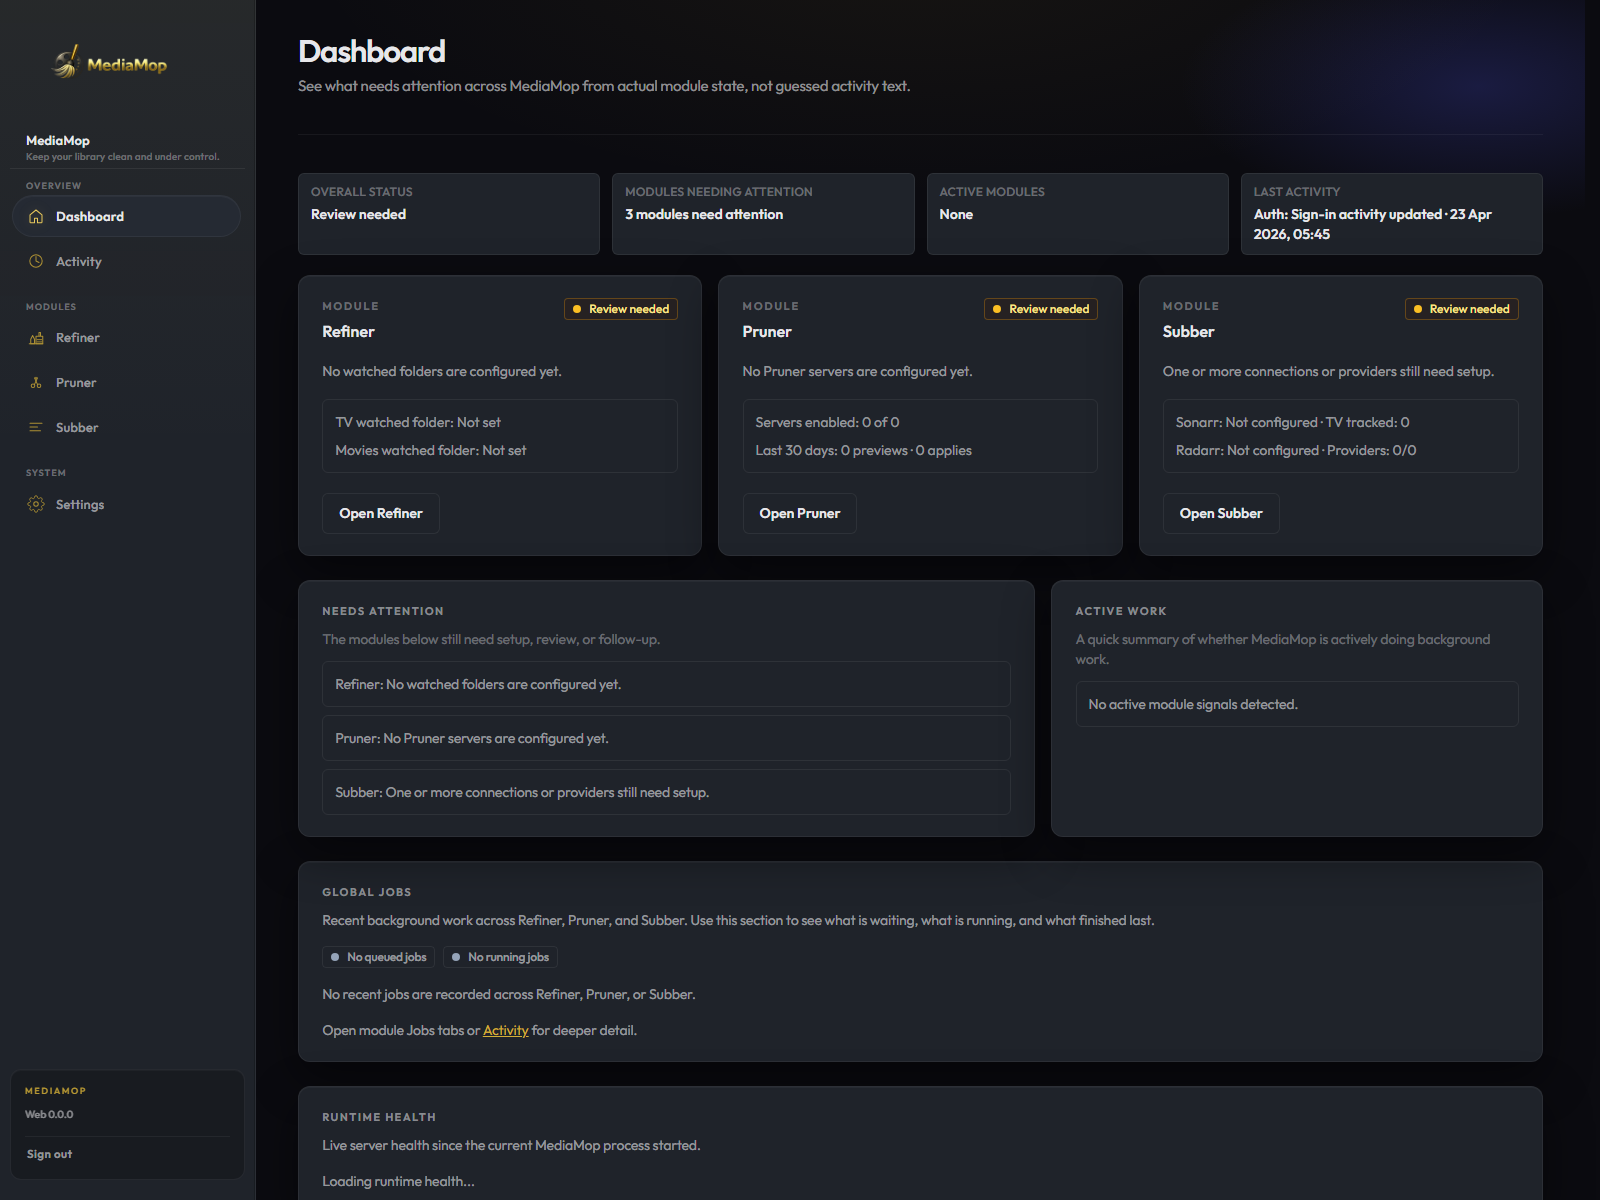
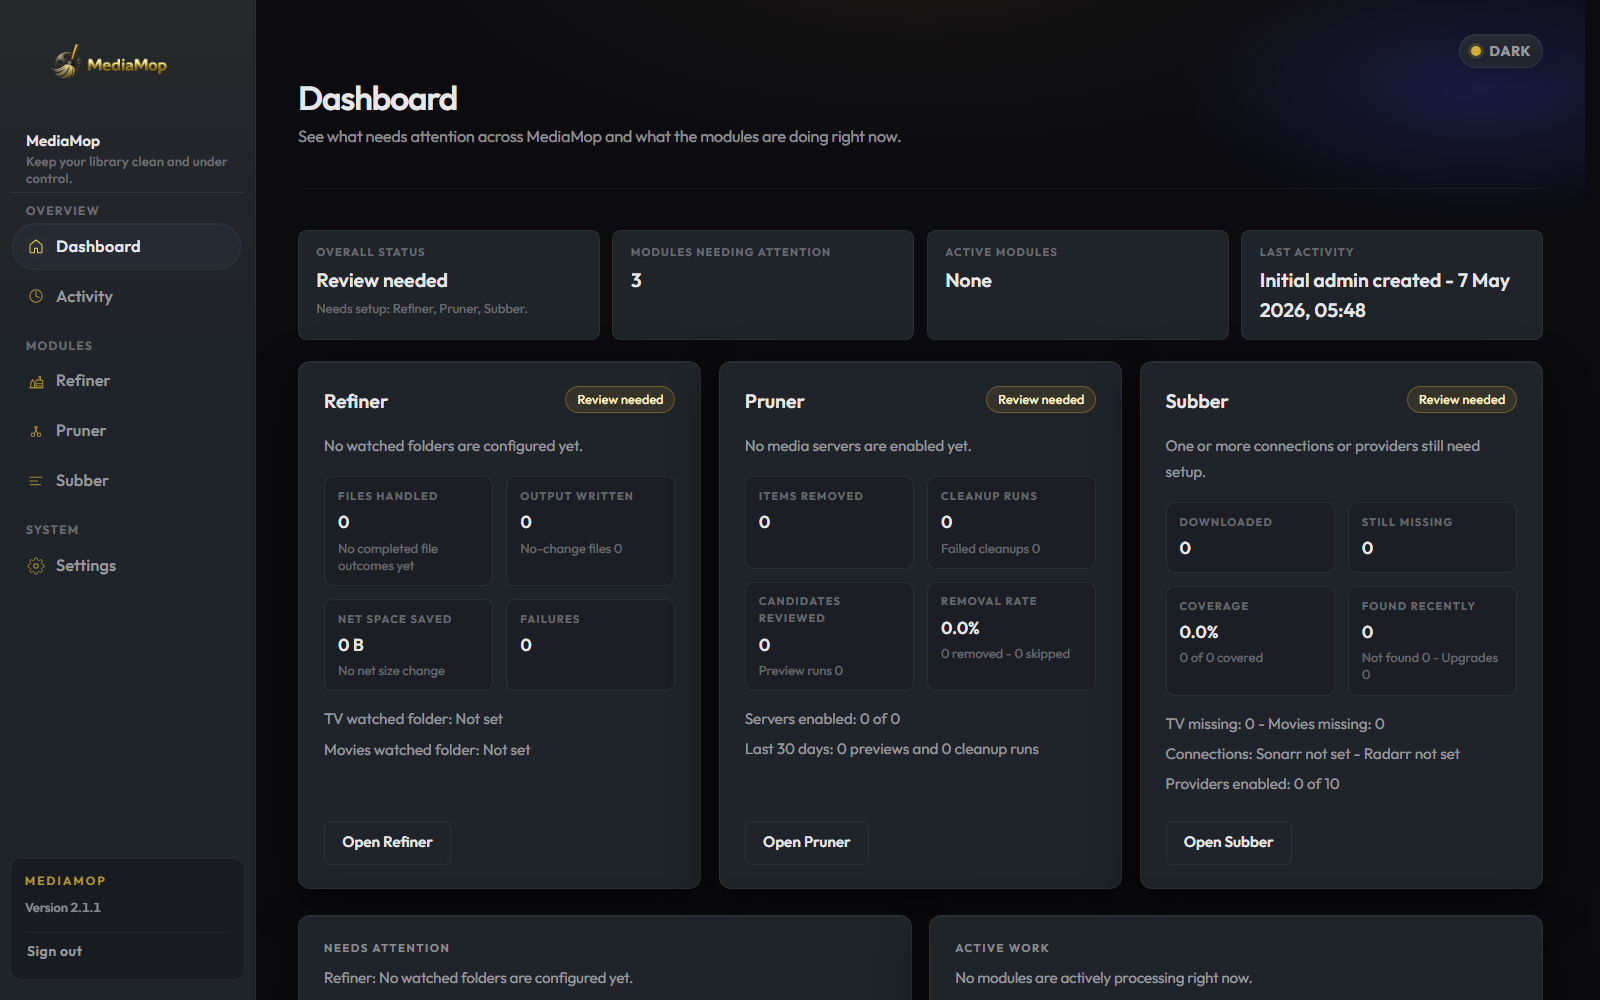
README: add screenshots for all major modules (#153)

diff --git a/README.md b/README.md
@@ -28,9 +28,19 @@ The app ships as a FastAPI + SQLite backend with a React + Vite web UI.
 
 ## Screenshots
 
-![Dashboard](screenshots/dashboard.png)
+| Dashboard | Activity |
+| --- | --- |
+| ![Dashboard](screenshots/dashboard.png) | ![Activity](screenshots/activity.png) |
 
-![Activity](screenshots/activity.png)
+| Refiner | Pruner |
+| --- | --- |
+| ![Refiner](screenshots/refiner.png) | ![Pruner](screenshots/pruner.png) |
+
+| Subber | Settings |
+| --- | --- |
+| ![Subber](screenshots/subber.png) | ![Settings](screenshots/settings.png) |
+
+### Refiner activity detail
 
 ![Refiner activity detail](screenshots/refiner-activity.png)
 
